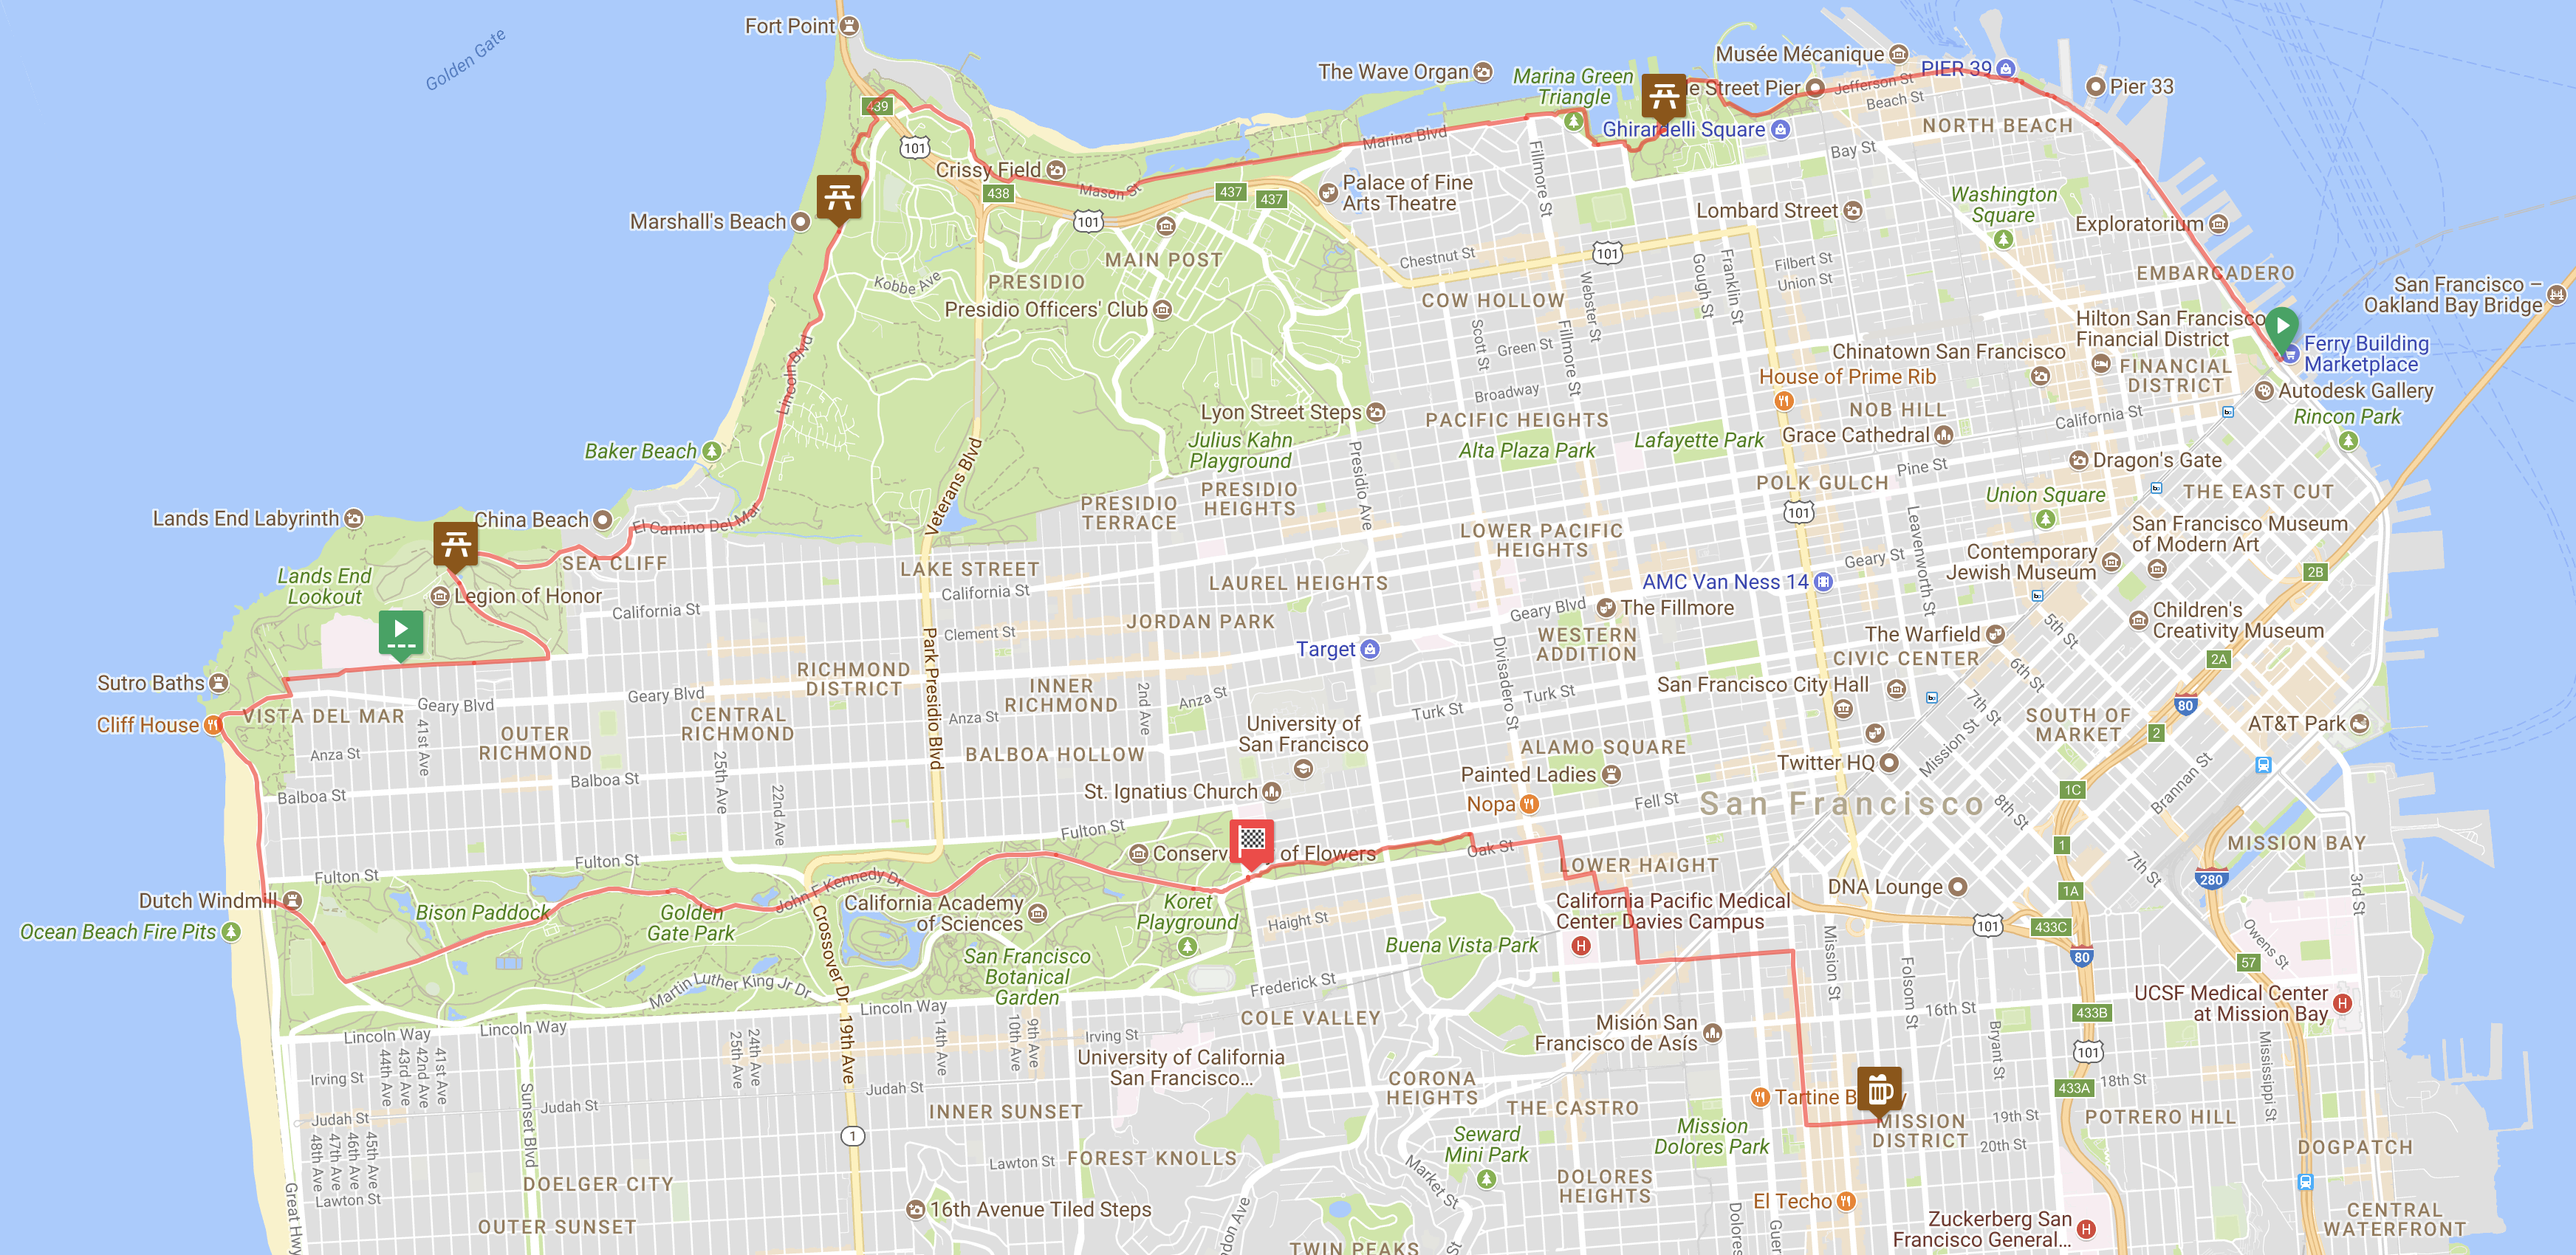
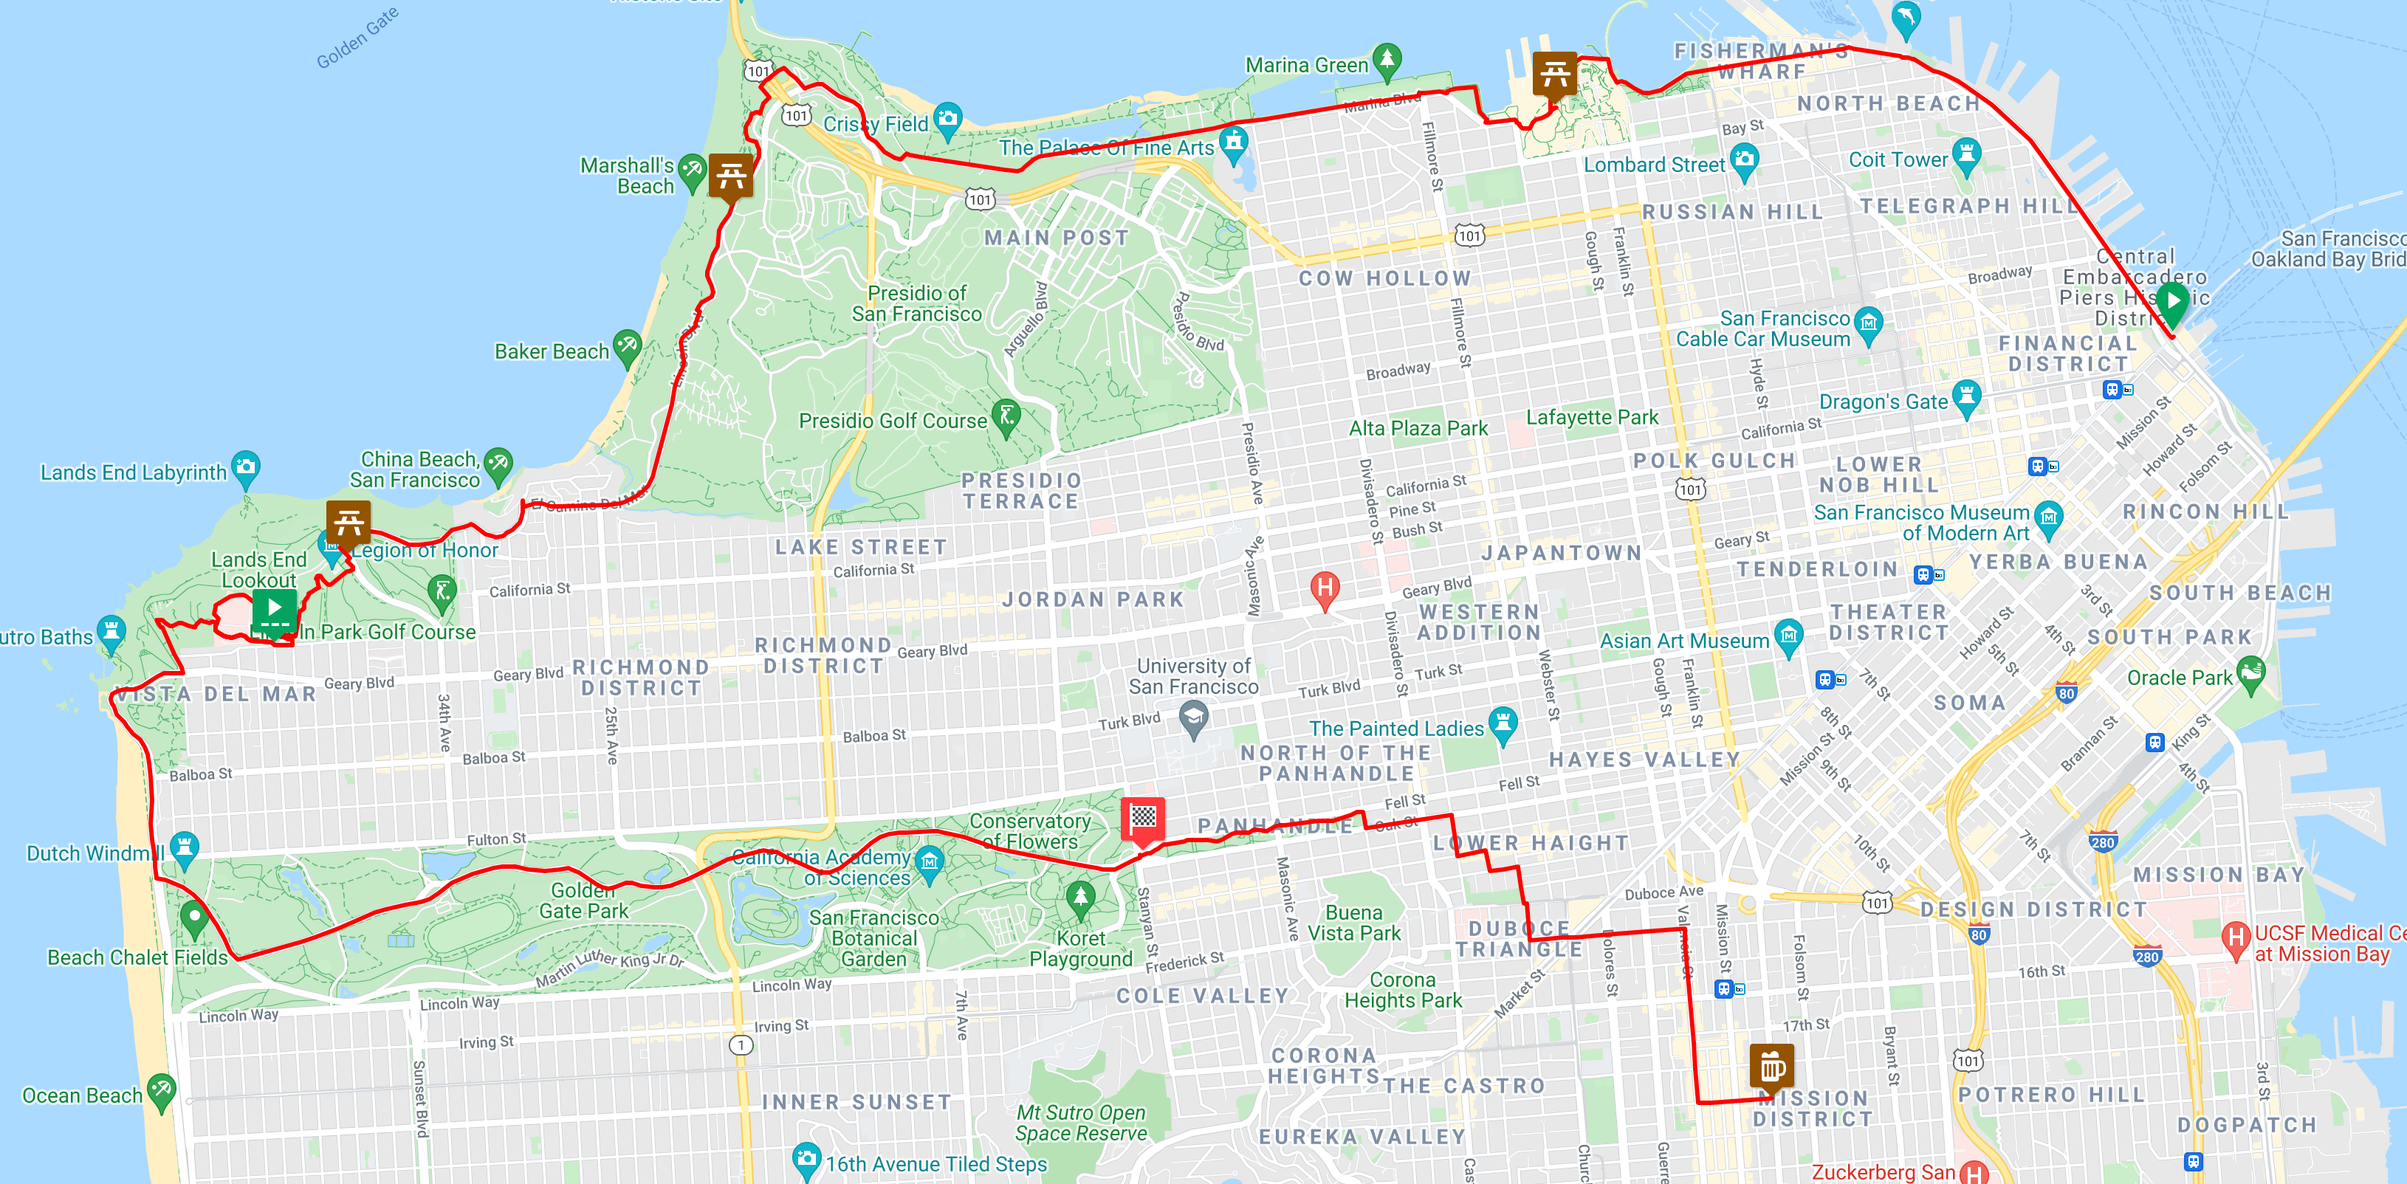
Link to new route & update picture 🖼

diff --git a/index.html b/index.html
@@ -36,8 +36,8 @@
           <img src="route.png" class="img-fluid" alt="A map of the Butterlap route" />
         </a>
         <figcaption class="figure-caption text-center">
-          Route on <a href="https://ridewithgps.com/routes/27384012">RideWithGPS</a>
-          or <a href="https://www.strava.com/routes/11257377">Strava</a>
+          Route on <a href="https://ridewithgps.com/routes/36006344">RideWithGPS</a>
+          or <a href="https://www.strava.com/routes/2827394087307851706">Strava</a>
         </figcaption>
       </figure>
 
